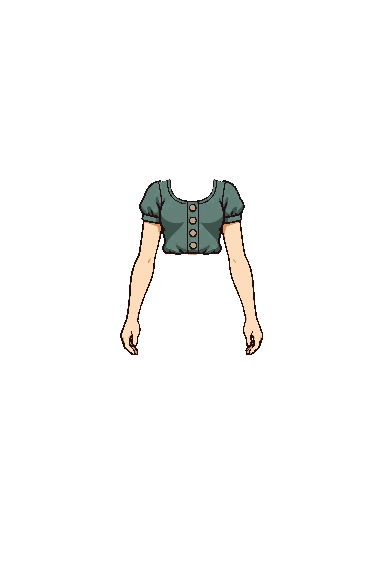
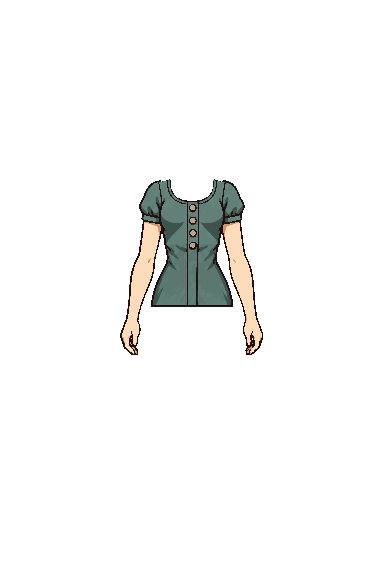
4番のブラウスを外に出せる長さに（中に入れる／外に出すで変わる、上だけでもおなかが出ない）（v0.10.184）

Changed region(s): [[0.375, 0.4062, 0.625, 0.5312]]

diff --git a/app/sw.js b/app/sw.js
@@ -1,6 +1,6 @@
 // オフライン対応：アプリ本体と絵を端末に保存して、電波がなくても開けるようにする
 // 版を上げるときは VERSION を変える（古い保存は消える）
-const VERSION = 'tabiquest-v0.10.183';
+const VERSION = 'tabiquest-v0.10.184';
 const CORE = [
   './', 'index.html', 'manifest.json', 'css/app.css', 'vendor/three.r128.min.js',
   'js/main.js', 'js/card.js', 'js/places.js', 'js/photo_places.js', 'js/plain_places.js', 'js/store.js', 'js/geo.js', 'js/conditions.js', 'js/ui.js', 'js/arrival.js', 'js/zukan.js', 'js/debug.js', 'js/mihon.js',

diff --git a/app/js/main.js b/app/js/main.js
@@ -50,7 +50,7 @@ import * as scramble from './scenes/scramble.js';
 import * as kamakura from './scenes/kamakura.js';
 import * as photo from './scenes/photo.js';
 
-export const VERSION = '0.10.183';
+export const VERSION = '0.10.184';
 engine.register('minatomirai', minatomirai.build);
 engine.register('chukagai', chukagai.build);
 engine.register('tokyotower', tokyotower.build);
